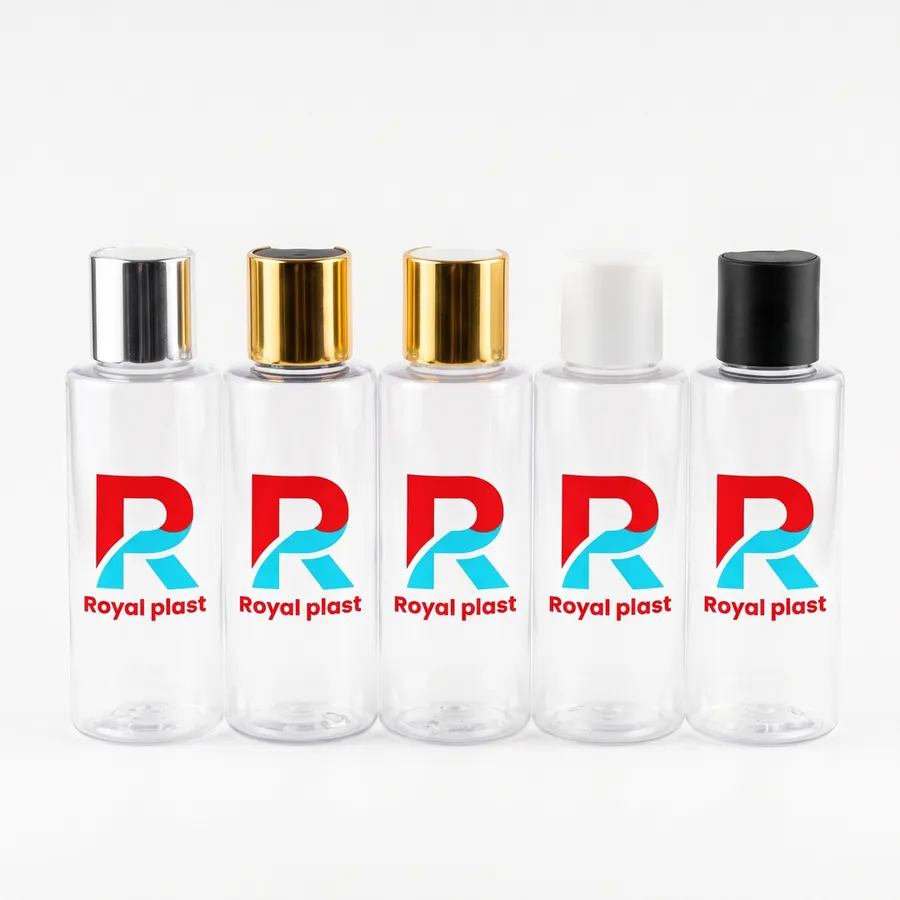
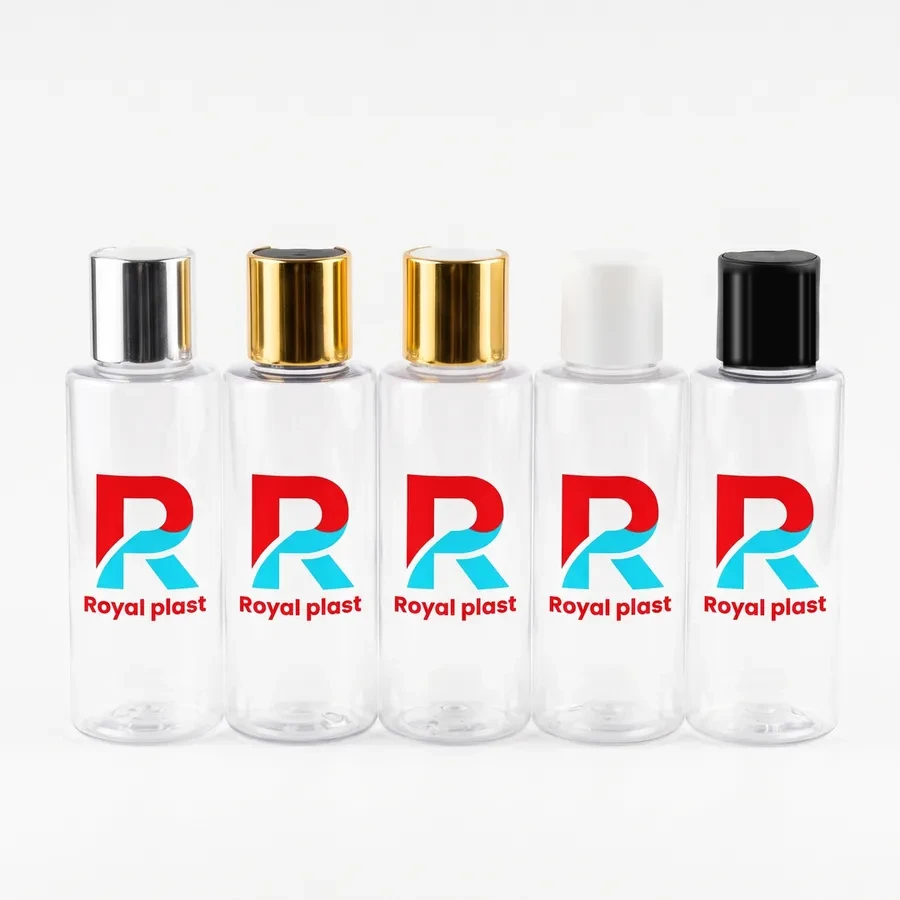
RP-026: glossy black cap
Claude-Session: https://claude.ai/code/session_01RHpAwk7S9yFShcnyhoKaQD

Changed region(s): [[0.8711, 0.28, 0.9333, 0.4356], [0.7778, 0.28, 0.84, 0.4356]]

diff --git a/app.js b/app.js
@@ -55,7 +55,7 @@ function fullTitle(p){return `${t(p.cat=='jar'?'jar':'bottle')} ${sizesTxt(p)}`.
 function sub(p){if(p.nospec)return t('nospec');const a=[];if(p.necks.length)a.push(p.necks.map(n=>'NK'+n).join(' / '));p.caps.forEach(c=>a.push(capName(c)));p.extra.forEach(e=>a.push(lang=='ar'?e.ar:e.en));return a.join(' · ')}
 const colTxt=p=>p.colors.map(c=>t(c)).join('، ').replace(/،/g,lang=='ar'?'، ':', ');
 const dotsHTML=p=>`<span class="dots">${p.colors.map(c=>`<i class="dot d-${c}" title="${t(c)}"></i>`).join('')}</span>`;
-const IMGV='20261109m';const imgU=n=>`img/${n}.webp?v=${IMGV}`,thU=n=>`t/${n}.webp?v=${IMGV}`;
+const IMGV='20261109n';const imgU=n=>`img/${n}.webp?v=${IMGV}`,thU=n=>`t/${n}.webp?v=${IMGV}`;
 function reveal(root){const io=new IntersectionObserver(es=>es.forEach(e=>{if(e.isIntersecting){e.target.classList.add('in');io.unobserve(e.target)}}),{threshold:.12,rootMargin:'0px 0px -40px 0px'});
  (root||document).querySelectorAll('.rv:not(.in)').forEach(el=>io.observe(el))}
 function applyLang(){document.documentElement.lang=lang;document.documentElement.dir=lang=='ar'?'rtl':'ltr';
